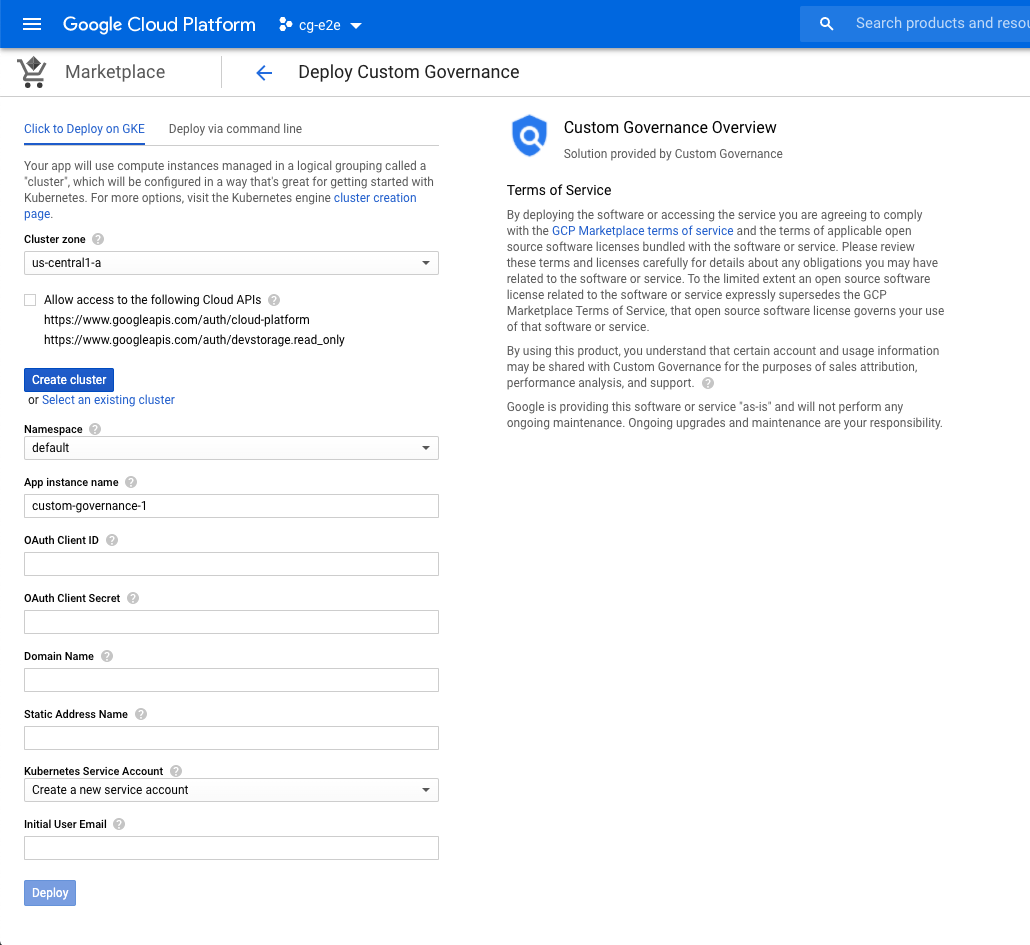
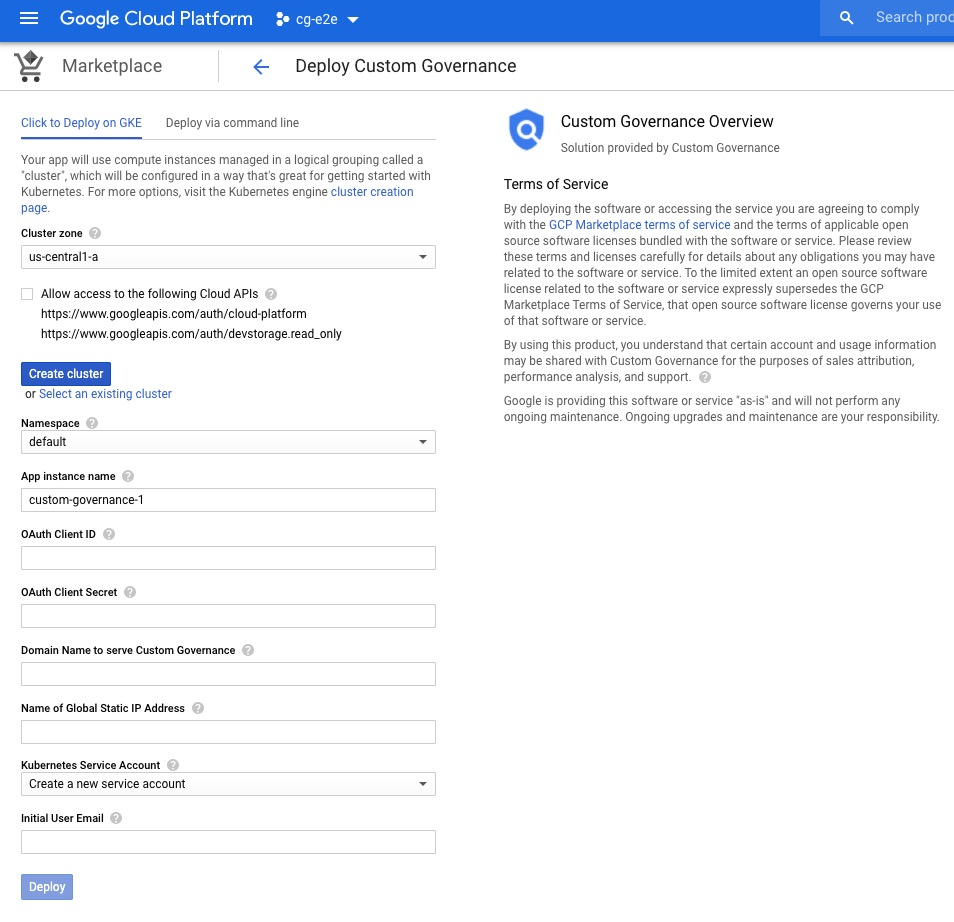
Update docs and add gcloud command when applicable

Changed region(s): [[0.0, 0.1215, 0.456, 1.0], [0.4864, 0.0911, 0.9727, 0.4555], [0.0, 0.0, 1.0, 0.0911]]

diff --git a/k8s/aditum/README.md b/k8s/aditum/README.md
@@ -1,63 +1,76 @@
-# Custom Governance Installation
+# Overview
 
-These instructions are for installing Custom Governance through the Google Cloud Platform (GCP) Marketplace UI.
+Custom Governance (CG) is a customizable customer-managed governance platform which lets you coordinate the unique set of rules which make your business work as a native part of your cloud environment.
 
-Custom Governance installed through Marketplace is a Kubernetes application on a Google Kubernetes Engine (GKE) cluster.
+[Learn more.](https://console.cloud.google.com/marketplace/details/aditum-marketplace-dev/custom-governance)
+
+## About Google Click to Deploy
+
+Popular open stacks on Kubernetes, packaged by Google.
 
 ## Questions
 
 Questions about Custom Governance? Go [here](https://docs.google.com/document/d/1o1x8wVrmNwWscnMDtXeTHBjK8cwBCvA6cidoSU0bEzM/edit#heading=h.huk25sxgebcs)
 
+# Installation
+
+## Before you get started
+
+As of early summer 2020 the Custom Governance product is in Early Access stage. We are taking a limited number of new customers. To try out Custom Governance, [please fill out this intake form.](https://docs.google.com/forms/d/1ulI20NPs-S5-pAAZDSlZl4nAOhg5GRERtyoAr0XM6lg/viewform?edit_requested=true)
+
 ## Quick install with Google Cloud Marketplace
 
 Get up and running with a few clicks! Install Custom Governance to a
 Google Kubernetes Engine cluster using Google Cloud Marketplace. Follow the
-[on-screen instructions](https://console.cloud.google.com/marketplace/details/aditum-marketplace-dev/custom-governance).
+[on-screen steps](https://console.cloud.google.com/marketplace/details/aditum-marketplace-dev/custom-governance).
 
-## Start Here: Installation Prerequisites
+Below are detailed instructions for installing Custom Governance through the Google Cloud Platform (GCP) Marketplace UI. Currently we don't provide a command-line
+instruction to install Custom Governance.
 
+Custom Governance installed through Marketplace is a Kubernetes application on a Google Kubernetes Engine (GKE) cluster.
 
-### Enable [Cloud Resource Manager](https://console.cloud.google.com/apis/api/cloudresourcemanager.googleapis.com)
+### Installation Process
 
+1. [Create a project](https://cloud.google.com/resource-manager/docs/creating-managing-projects#before_you_begin)
+ where Custom Governance can be deployed.
 
+1. Enable [Cloud Resource Manager](https://console.cloud.google.com/apis/api/cloudresourcemanager.googleapis.com).
+   *   CRM (Cloud Resource Manager) is used by Custom Governance to read Google Cloud Platform resource metadata. It is required for Custom Governance to run.
+1. Visit the Marketplace listing for [Custom Governance](https://console.cloud.google.com/marketplace/details/aditum-marketplace-dev/custom-governance) for information on Custom Governance. We will start installation on this page.
+   *   When you are ready to deploy click on the “Configure” button, it will take you to the Deployment Configuration UI:
 
-*   CRM (Cloud Resource Manager) is used by Custom Governance to read Google Cloud Platform resource metadata. It is required for Custom Governance to run.
+        ![Deployment Configuration](./images/deployment_configuration.png)
+   
+   Please follow the below instructions to finish installation.
+   1. Create a cluster. The cluster list will list only clusters that meet the requirements, you can create a new cluster that meets the requirements by clicking “Create a new cluster”. If you want to create the cluster manually, click [here](#Create-a-GKE-Cluster-Manually) for instruction.
+      * **Make sure to enable "Allow access to the following Cloud APIs".** This is required
+      for the Cluster to be able to network with GCP services.
+   2. Set up Namespace. You can use the default namespace or create a new one in the dropdown.
+   3. Set up App instance name. This is the name of your application instance.
+   4. Set up OAuth Client ID and OAuth Client Secret. Please follow the [OAuth section](#Setup-OAuth-Credentials-for-IAP-Identity-Aware-Proxy) and fill in the OAuth Client ID and OAuth Client Secret that you created there.
+   5. Set up Domain Name to serve Custom Governance and Name of Global Static IP Address. Please follow the instructions here on [how to create a static ip](#Reserve-Static-External-IP-Address) and fill in the name of that ip address. After a static ip is reserved, please follow [DNS A Record](#DNS-A-Record). The Domain name which needs to be filled in here refers to the name that you pointed to the static IP address through the A record.
+   6. Set up Kubernete Service Account. Please select *Create a new service account*
+        *   A new Kubernetes service account will be created using cluster edit and read roles to allow access to the Kubernetes Secrets
+   7. Set up Initial User Email: This will be the user email address that will be deploying/setting up Custom Governance. Custom Governance will check for this email address even after the user has passed through IAP.
+   8. Click “Deploy” when you are ready. Deployment will take a couple of minutes or longer. Even after deployment is successful the cg-ingress may take longer to become ready. This is completely normal.
 
+### Detailed Instructions
 
-### GKE Cluster:
+#### Create a GKE Cluster Manually:
 
+  * You can create a cluster with the scope through the [gcloud command-line tool](https://cloud.google.com/sdk/gcloud). You can run this command in the Cloud Shell:
 
-**You can use the Marketplace UI to create a cluster with the correct requirements for you:**
+    `gcloud container clusters create [YOUR-CLUSTER-NAME] --scopes=https://www.googleapis.com/auth/cloud-platform --region=[YOUR-REGION]`
 
-![Cluster Selection](./images/cluster_select.png)
+  * Or you can create a cluster through [Kubernetes Engine UI](https://console.cloud.google.com/kubernetes) if you wish to customize more on the cluster settings.
+    *  **Recommended machine type for optimal performance: [n1-standard-4](https://cloud.google.com/compute/docs/machine-types)**
+    *   **The scope can be set through Nodepool Security. Click on Node Pools > Security > Set access for each API > Set Cloud Platform to enable**
 
-
-![Cluster Creation](./images/cluster_creation.png)
-
-* Click “Create a new cluster” on the deployment configuration page.
-* **Make sure to enable "Allow access to the following Cloud APIs".** This is required
-for the Cluster to be able to network with GCP services.
-
-**Recommended machine type for optimal performance: [n1-standard-4](https://cloud.google.com/compute/docs/machine-types)**
-
-If you wish to create a cluster manually:
-
-
-
-  *   The Cloud Platform scope allows your cluster to communicate with Google Cloud Platform services.
-  *   The scope can be set through Nodepool Security. While creating a new cluster through the UI- Click on Node Pools > Security > Set access for each API > Set Cloud Platform to enabled
-  *   You can also create a cluster with the scope through the [gcloud command-line tool](https://cloud.google.com/sdk/gcloud):
-
-        `gcloud container clusters create [YOUR-CLUSTER-NAME] --scopes=https://www.googleapis.com/auth/cloud-platform --region=[YOUR-REGION]`
-
-
-### Setup OAuth Credentials for IAP (Identity Aware Proxy)
+#### Setup OAuth Credentials for IAP (Identity Aware Proxy)
 
 Learn more about IAP [here](https://cloud.google.com/iap)
 
 You will need to pass OAuth Credentials to Marketplace UI to properly configure IAP. Follow the instructions to create OAuth Credentials:
-
-
 
 [Configuring OAuth Consent Screen](https://cloud.google.com/iap/docs/enabling-kubernetes-howto#oauth-configure)
   * Selecting External will allow accounts outside of your organization to access Custom Governance
@@ -65,14 +78,14 @@ You will need to pass OAuth Credentials to Marketplace UI to properly configure 
 
 [Creating OAuth Credentials](https://cloud.google.com/iap/docs/enabling-kubernetes-howto#oauth-credentials)
   1.  Via Cloud Console visit [Menu > API & Services > Credentials](https://console.cloud.google.com/apis/credentials)
-  1.  Click *Create Credentials* and select *OAuth client ID*
-  1.  Select *Web application* as the Application type
+  2.  Click *Create Credentials* and select *OAuth client ID*
+  3.  Select *Web application* as the Application type
     ![OAuth Step 1](./images/oauth_step1.png)
-  1.  Create the OAuth Credentials by clicking *Create*
-  1. Copy the Client ID from the OAuth confirmation modal
+  4.  Create the OAuth Credentials by clicking *Create*
+  5. Copy the Client ID from the OAuth confirmation modal
     ![OAuth Step 2](./images/oauth_step2.png)
-  1. Dismiss the modal and select the OAuth 2.0 Client ID that was just created
-  1. Add a Authorized redirect URI that incorporates the client ID that you copied over
+  6. Dismiss the modal and select the OAuth 2.0 Client ID that was just created
+  7. Add a Authorized redirect URI that incorporates the client ID that you copied over
     ![OAuth Step 3](./images/oauth_step3.png)
 
       * Required URI: https://iap.googleapis.com/v1/oauth/clientIds/CLIENT_ID:handleRedirect
@@ -81,64 +94,33 @@ You will need to pass OAuth Credentials to Marketplace UI to properly configure 
 
 Once you have created your OAuth Credentials you will need the following to pass into Marketplace UI:
 
-
-
 *   OAuth client ID
 *   OAuth client secret
 
-
 ### Reserve Static External IP Address
 
-Follow the instructions to reserve a static IP address:
+*   You can reservce static external IP address through the [gcloud command-line tool](https://cloud.google.com/sdk/gcloud). You can run this command in the Cloud Shell. Those two commands will reserve a static ip and expose the id address to be used for DNS A Reord setup:
 
+    `gcloud compute addresses create [STATIC-ADDRESS-NAME] --global`
 
-*   **You MUST choose Global as the IP address type**
-*   [Reserving a static IP address](https://cloud.google.com/compute/docs/ip-addresses/reserve-static-external-ip-address)
-*   The name for the static address will need to be passed into the Marketplace UI, note is down
-
+*   Or you can reserve static external IP address through [cloud console UI](https://cloud.google.com/compute/docs/ip-addresses/reserve-static-external-ip-address).
+    *   **You MUST choose Global as the IP address type**
+    *   The name for the static address will need to be passed into the Marketplace UI, note is down
 
 
 ### DNS A Record
 
-The [managed certificate](https://cloud.google.com/kubernetes-engine/docs/how-to/managed-certs) used by IAP requires hostname DNS verification.  Follow these instructions to retrieve your assigned IP address:
+*    Run the following gcloud command to retrieve your assigned IP address:
+    
+      `gcloud compute addresses describe [STATIC-ADDRESS-NAME] --global`
 
+*   Or retrieve the IP through [cloud console UI](https://console.cloud.google.com/networking/addresses/list). Find your STATIC-ADDRESS-NAME and the External Address is the IP address.
 
+The [managed certificate](https://cloud.google.com/kubernetes-engine/docs/how-to/managed-certs) used by IAP requires hostname DNS verification.  
 
-*   [Listing static IP addresses](https://cloud.google.com/compute/docs/ip-addresses/reserve-static-external-ip-address#list_ip)
-
-You will need to create an A record with the assigned IP address in your DNS settings. These DNS settings are usually handled by your host provider. Set the TTL to the minimum amount to allow for quick propagation.
+Then you will need to **create an A record with the assigned IP address in your DNS settings**. These DNS settings are usually handled by your host provider. Set the TTL to the minimum amount to allow for quick propagation.
 
 If you utilize Cloud DNS you can follow [these instructions for creating a new record](https://cloud.google.com/dns/docs/quickstart#create_a_new_record)
-
-
-## Installation Process
-
-Before deploying through Marketplace please [create a project](https://cloud.google.com/resource-manager/docs/creating-managing-projects#before_you_begin)
- where Custom Governance can be deployed.
-
-Visit the Marketplace listing for [Custom Governance](https://console.cloud.google.com/marketplace/details/aditum-marketplace-dev/custom-governance) for information on Custom Governance.
-
-When you are ready to deploy click on the “Configure” button, it will take you to the Deployment Configuration UI:
-
-![Deployment Configuration](./images/deployment_configuration.png)
-
-Here you will fill in the information we created in the Prerequisites section:
-
-
-
-*   Cluster: The cluster list will list only clusters that meet the requirements, you can create a new cluster that meets the requirements by clicking “Create a new cluster”
-*   Namespace: You can use the default namespace or create a new one in the dropdown
-*   App Instance Name: Name of your application instance.
-*   OAuth Client ID and OAuth Client Secret: Fill in the OAuth Client ID and OAuth Client Secret that you created in the [OAuth section](#bookmark=id.6dytd4218vwe)
-*   Domain Name: the domain name that you pointed to the static IP address through the A record
-*   Static Address Name: the name assigned to a static address resource that was created in the prerequisites section. Retrieve the static address name:
-    *   [Listing static IP addresses](https://cloud.google.com/compute/docs/ip-addresses/reserve-static-external-ip-address#list_ip)
-*   Kubernetes Service Account: Please select *Create a new service account*
-  *   A new Kubernetes service account will be created using cluster edit and read roles to allow access to the Kubernetes Secrets
-*   Initial User Email: will be the user email address that will be deploying/setting up Custom Governance. Custom Governance will check for this email address even after the user has passed through IAP.
-
-Click “Deploy” when you are ready. Deployment will take a couple of minutes or longer. Even after deployment is successful the cg-ingress may take longer to become ready. This is completely normal.
-
 
 ## Post Deployment
 
@@ -147,13 +129,13 @@ Click “Deploy” when you are ready. Deployment will take a couple of minutes 
 After Marketplace Deployment has completed successfully you will need to configure
 IAP and add any users that will require access to Custom Governance.
 
-*   From the Cloud Console visit [Menu > Security > Identity-Aware-Proxy](https://cloud.google.com/iap)
+*   From the Cloud Console visit [Menu > Security > Identity-Aware-Proxy](https://console.cloud.google.com/security/iap)
 *   Enable IAP if it is not already enabled
 *   Review any Errors and Warning as well as review the firewalls
 *   Via Cloud Console you can add users to IAP approved list. Visit
-    [Menu > IAM & Admin > IAM](https://cloud.google.com/iam-admin/iam) and add
+    [Menu > IAM & Admin > IAM](https://console.cloud.google.com/iam-admin/iam) and add
     the *IAP-secured Web App User* role to users you wish to grant access to
-    * Project Owner will need to be added to IAP approved list as well
+    * **Project Owner will need to be added to IAP approved list as well**
 
 ![IAM IAP Setup](./images/IAM_IAP_user.png)
 
